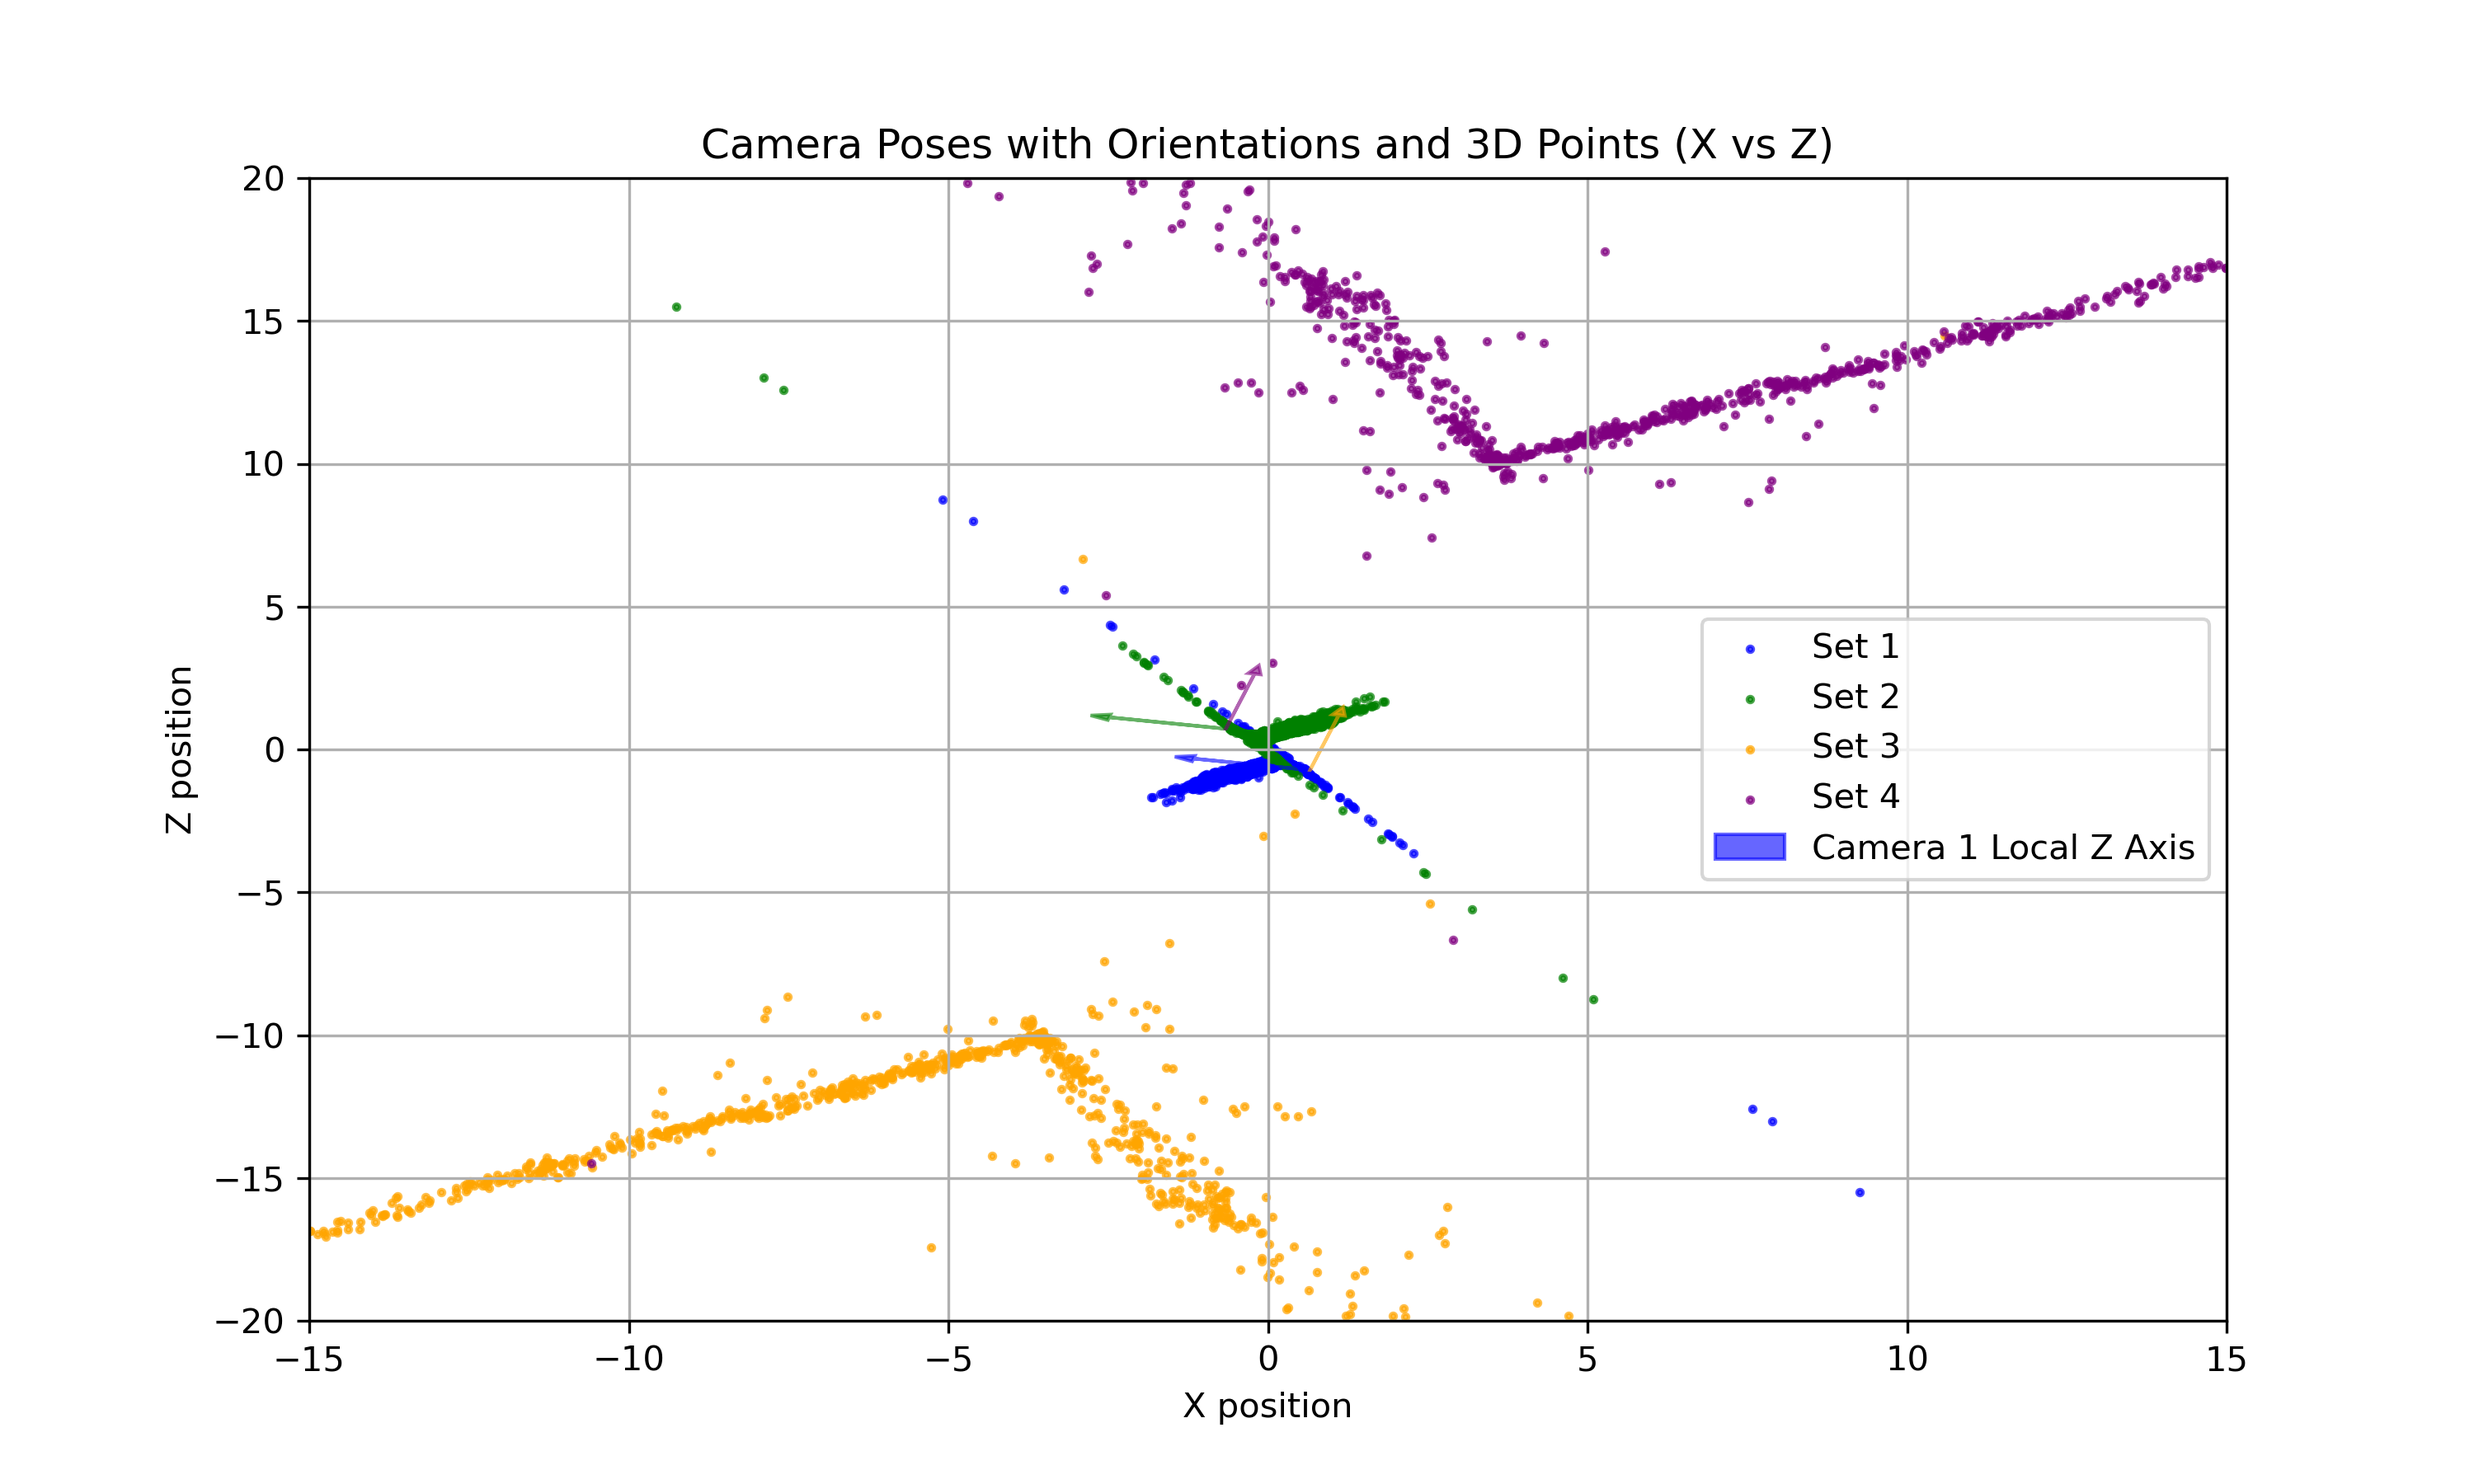
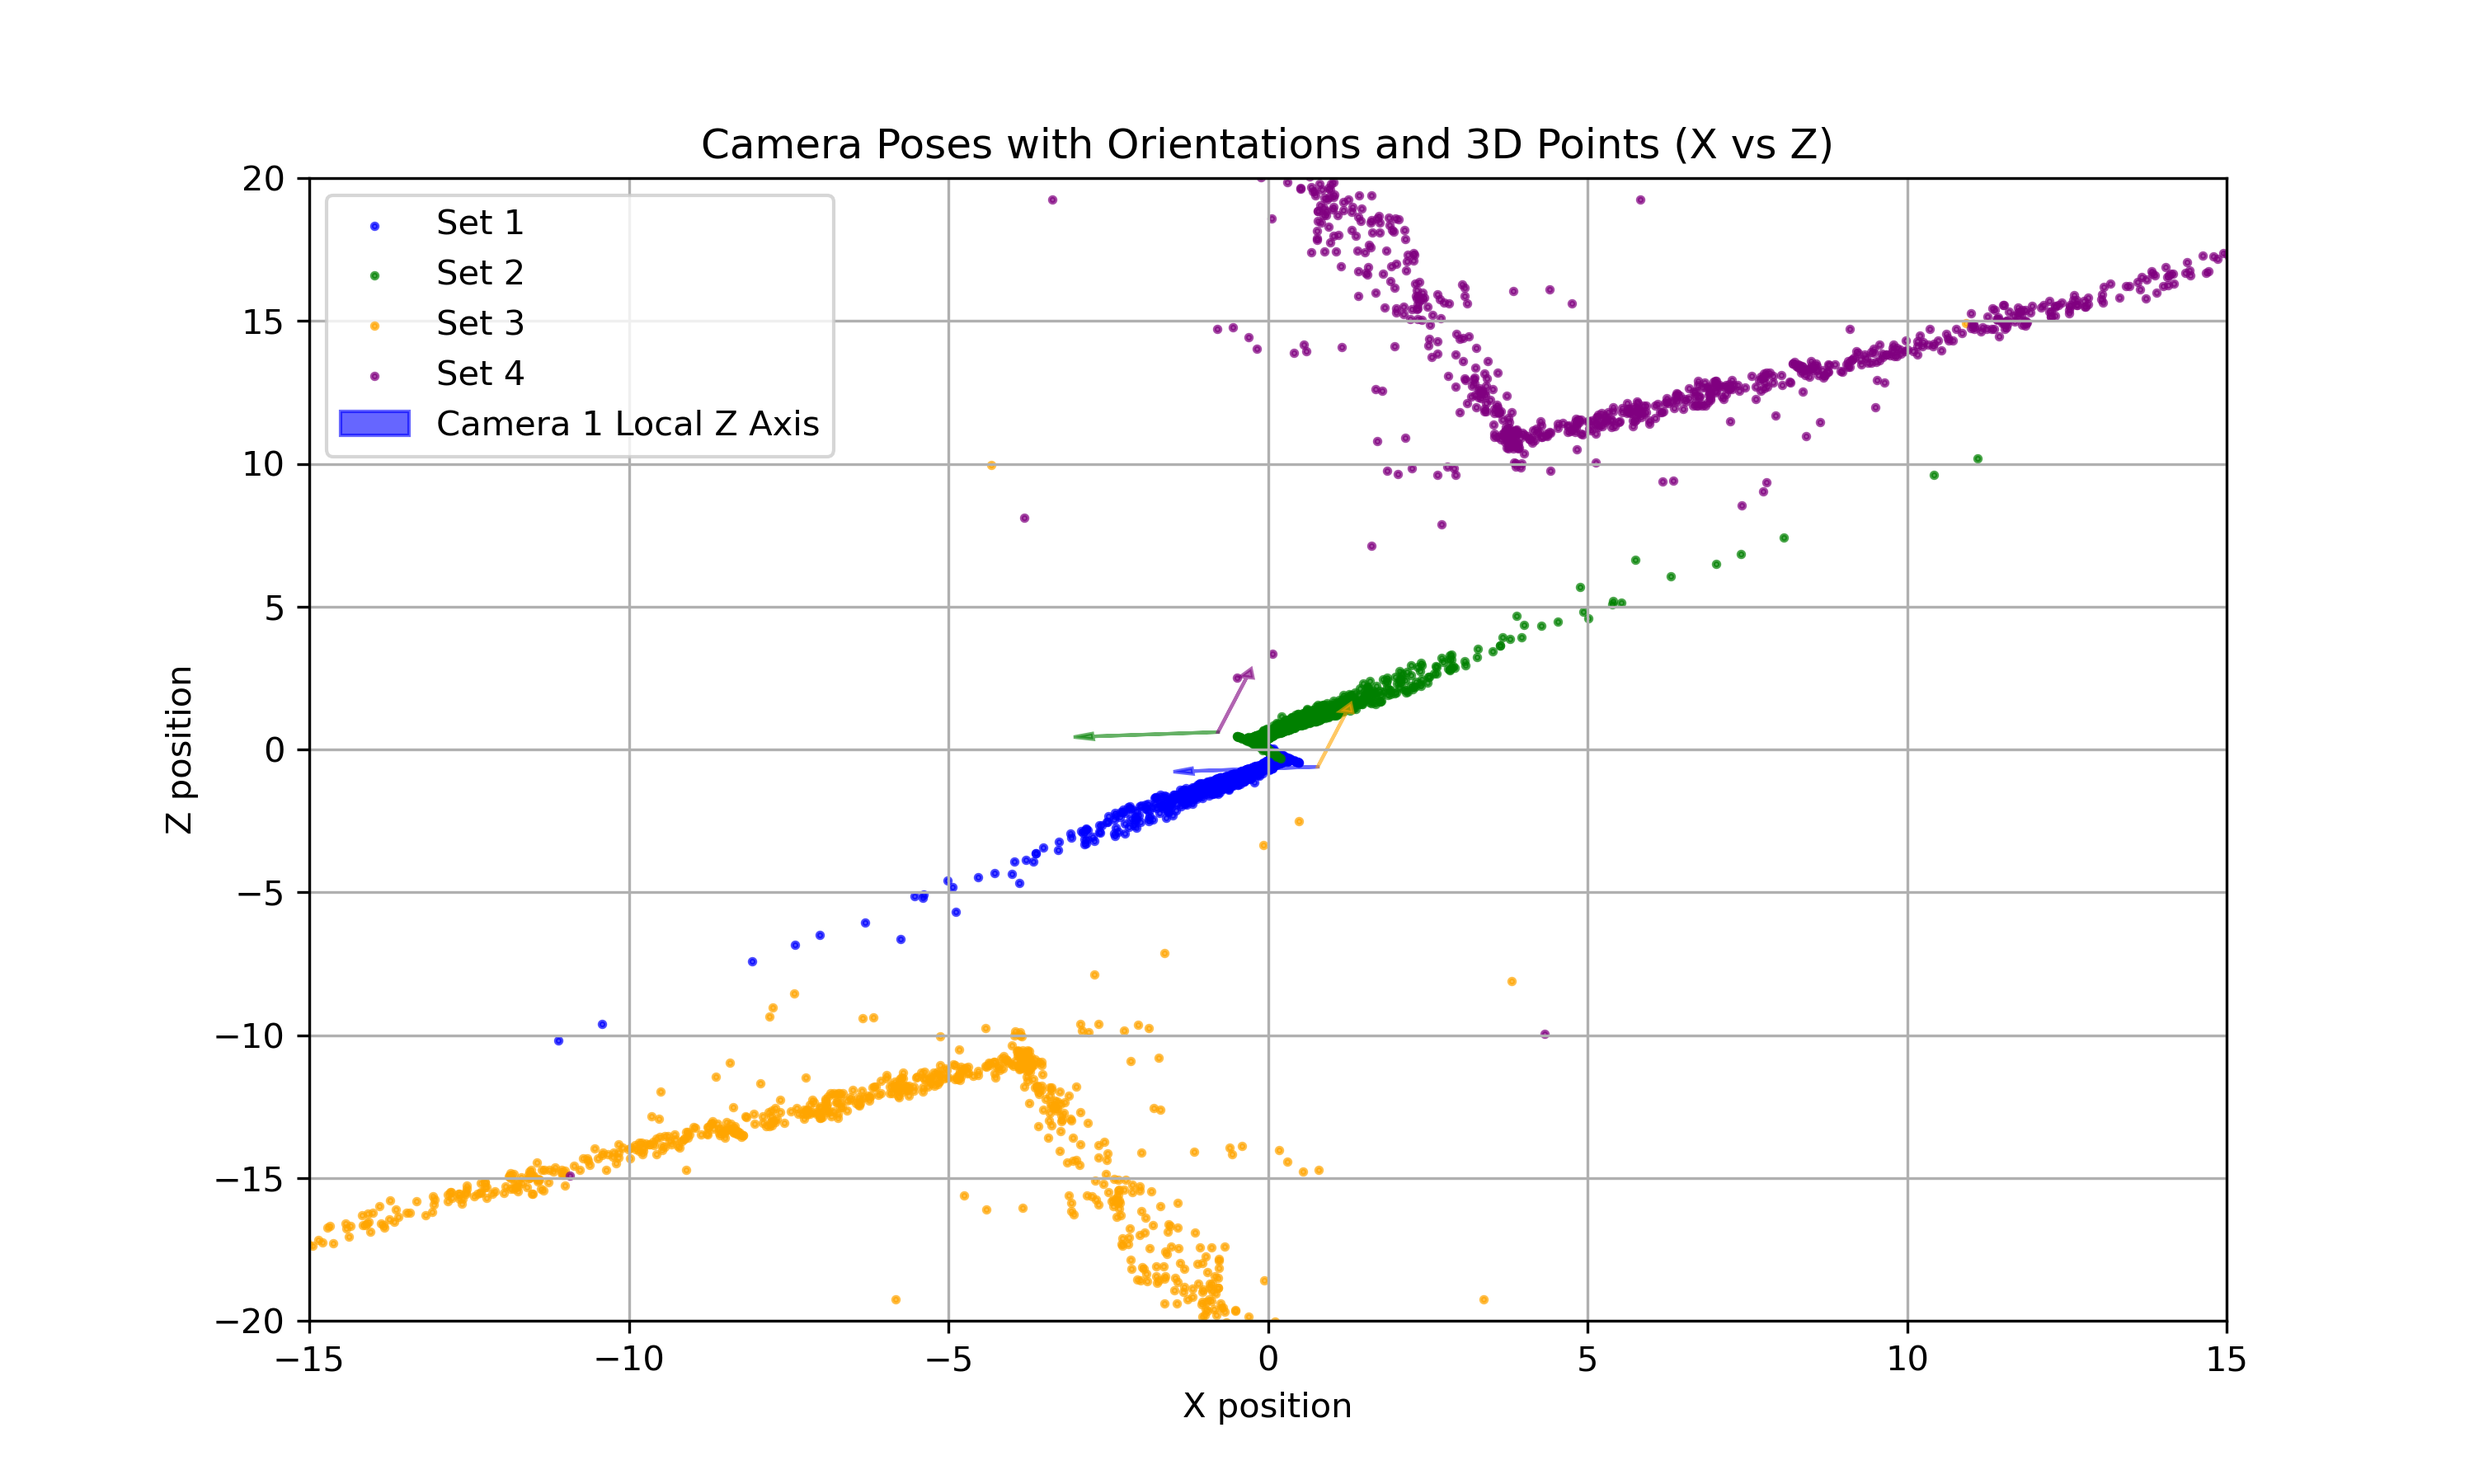
pipeline complete through images 1 and 2

diff --git a/Code/Wrapper_New.py b/Code/Wrapper_New.py
@@ -91,7 +91,7 @@ for i in range(5):
         DF4 = ParseKeypoints(fp4, source_camera_index, target_camera_index)
         DF5 = ParseKeypoints(fp5, source_camera_index, target_camera_index)
         ParseKeypoints_DF = pd.concat([DF1, DF2, DF3, DF4, DF5], ignore_index=True)
-        print(ParseKeypoints_DF)
+        #print(ParseKeypoints_DF)
         #ParseKeypoints_DF.to_csv('recent_data.csv', index = True)
 
         # Extract coordinates for source and target keypoints
@@ -132,6 +132,8 @@ for i in range(5):
 # GET FUNDAMENTAL MATRIX (already calculated during RANSAC)
 with open('../Data/ransac_inliers12.pkl', 'rb') as f:
     source_inliers12, target_inliers12, fundamental_matrix12 = pickle.load(f)
+print(bcolors.OKGREEN + "\nFundamental matrix F:" + bcolors.OKGREEN)
+print(fundamental_matrix12, '\n')
 
 # GET ESSENTIAL MATRIX
 # need to load camera intrisics K
@@ -163,6 +165,41 @@ for i in range(4):
     # - Rset[i]: Rotation matrix for the i-th pose
     # - x1Inlier: Inlier points in the source image
     # - x2Inlier: Corresponding inlier points in the target image
-    Xset_i = LinearTriangulation(K, np.zeros((3,1)), np.eye(3), Cset[i], Rset[i], source_inliers, target_inliers)
+    Xset_i = LinearTriangulation(K, np.zeros((3,1)), np.eye(3), Cset[i], Rset[i], source_inliers12, target_inliers12)
 
     Xset.append(Xset_i)
+
+# ADD IN PLOTTING OF ALL CAMERA POSES
+SAVE_DIR = '../Data/Imgs'
+PlotCameraPts(Cset, Rset, Xset, SAVE_DIR, 'FourCameraPose.png')
+
+# CHECK CHEIRALITY CONDITION TO DISAMBIGUATE CAMERA POSE
+C, R, X, selectedIdx = DisambiguateCameraPose(Cset, Rset, Xset)
+
+print(f"Correct Camera Pose Index: {selectedIdx}")
+print(f"Camera Center: \n{C}")
+print(f"Rotation Matrix: \n{R}")
+
+# ADD IN PLOTTING OF SELECTED CAMERA POSE
+PlotPtsCams([C], [R], [X], SAVE_DIR, 'OneCameraPoseWithPoints.png')
+
+# PERFORM NONLINEAR TRIANGULATION'
+XOPT_FILE = os.path.join(SAVE_DIR, "Xopt.npy")
+
+if os.path.exists(XOPT_FILE):
+    # Load Xopt if it exists
+    print("Loading precomputed Xopt from file...")
+    Xopt = np.load(XOPT_FILE)
+else:
+    # Compute Xopt using NonlinearTriangulation if it doesn't exist
+    print("Computing Xopt using NonlinearTriangulation...")
+    Xopt = NonlinearTriangulation(K, np.zeros((3, 1)), np.eye(3), C, R, source_inliers, target_inliers, X)
+
+    # Save the computed Xopt to a file
+    np.save(XOPT_FILE, Xopt)
+    print(f"Xopt saved to {XOPT_FILE}")
+
+Cpair = [C, C]
+Rpair = [R, R]
+Xpair = [X, Xopt]
+TriangulationComp(Cpair, Rpair, Xpair, SAVE_DIR, 'TriangulationComp.png')
